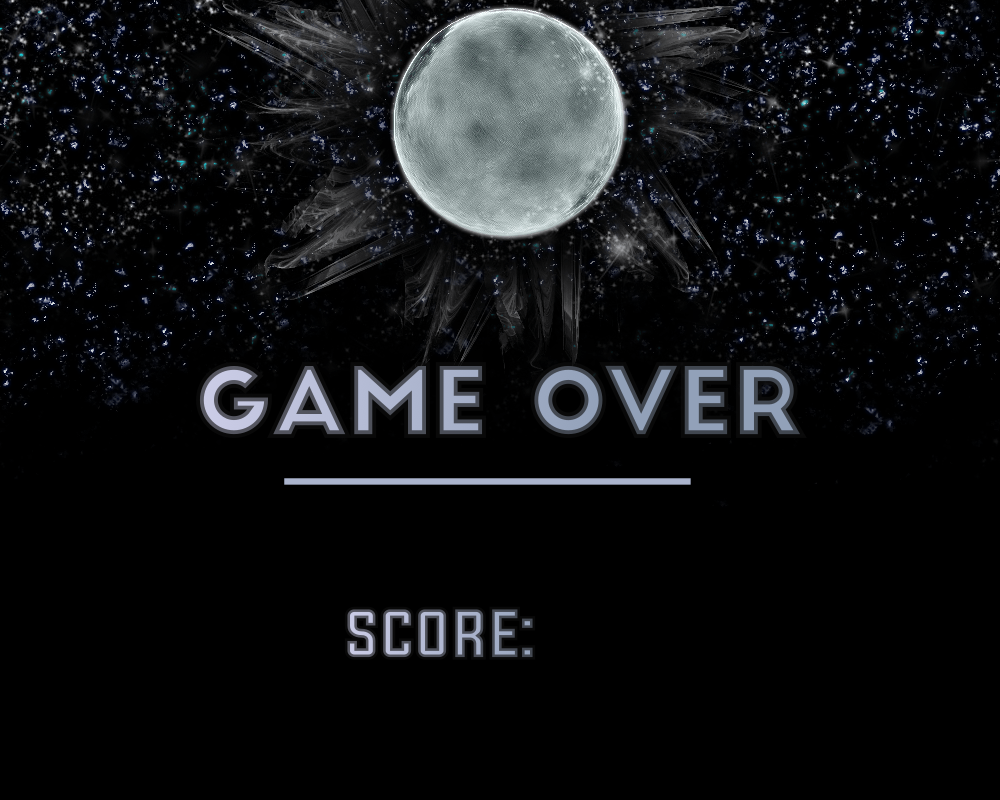
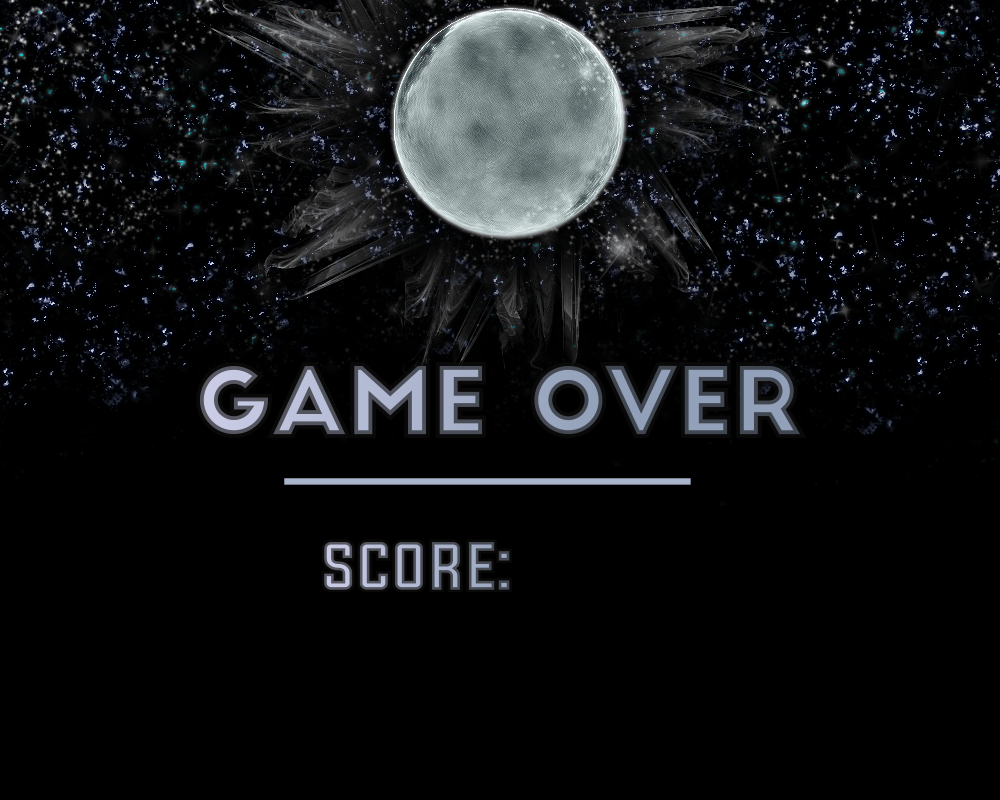
Game over screen update
Fixed going back to main menu from game over screen bug.
Game music now stops when going to main menu.
Adjusted gameover.png so score is in a better spot
Game over screen now looks much better (not clunky and bugged)

Changed region(s): [[0.31, 0.6562, 0.527, 0.8438]]

diff --git a/entry.py b/entry.py
@@ -125,14 +125,15 @@ def game_over_screen():
     Displays the game over screen with interactive buttons.
     """
     global running, score
-    mainmenu_rect = pygame.Rect((WIDTH // 2 - 150, HEIGHT // 2 + 50), (300, 100))
-    restart_rect = pygame.Rect((WIDTH // 2 - 125, HEIGHT // 2 + 200), (250, 100))
+    mainmenu_rect = pygame.Rect((WIDTH // 2 + 50, HEIGHT // 2 + 280), (300, 100))
+    restart_rect = pygame.Rect((WIDTH // 2 - 350, HEIGHT // 2 + 280), (250, 100))
 
     while True:
         screen.blit(gameover_img, (0, 0))
 
-        score_text = font.render(f"Score: {int(score)}", True, WHITE)
-        screen.blit(score_text, (WIDTH // 2 - 50, HEIGHT // 2 - 50))
+        font = pygame.font.Font(None, 100)
+        score_text = font.render(f"{int(score)}", True, WHITE)
+        screen.blit(score_text, (WIDTH // 2 + 40, HEIGHT // 2 + 135))
 
         mouse_pos = pygame.mouse.get_pos()
         mouse_click = False
@@ -152,7 +153,8 @@ def game_over_screen():
                 backquit_sound.play()
                 pygame.time.delay(100)  # Delay to see the image
                 import start_here  # Import the script containing the main menu
-                start_here.main_menu()  # Assuming this is the function to call
+                pygame.mixer.stop()
+                start_here.main_menu()  # Call main_menu function from start_here
                 break
         else:
             screen.blit(mainmenu_imgs[0], mainmenu_rect.topleft)
@@ -505,7 +507,7 @@ def main_loop():
 
     player = pygame.Rect(icon_x, icon_y, PLAYER_WIDTH/3,PLAYER_HEIGHT/2)
     health_bar = HealthBar(250, 250, 300, 40, 100)
-    player_health = 100
+    player_health = 250
 
 
     enemy1_coordinate = enemy_spawn(player)
